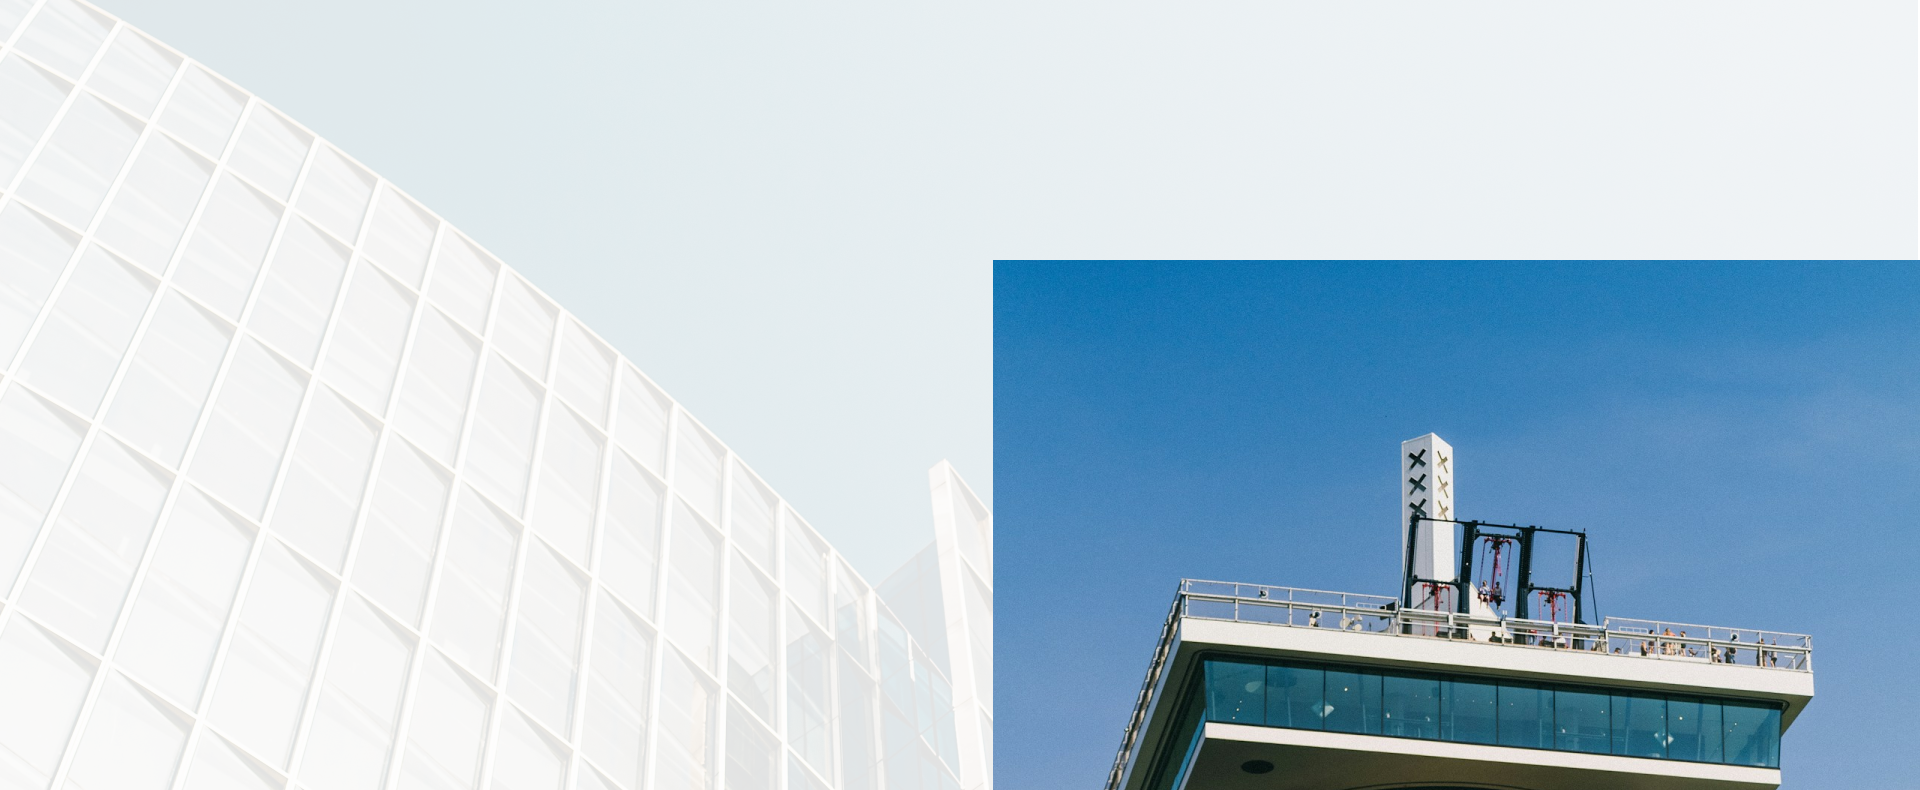
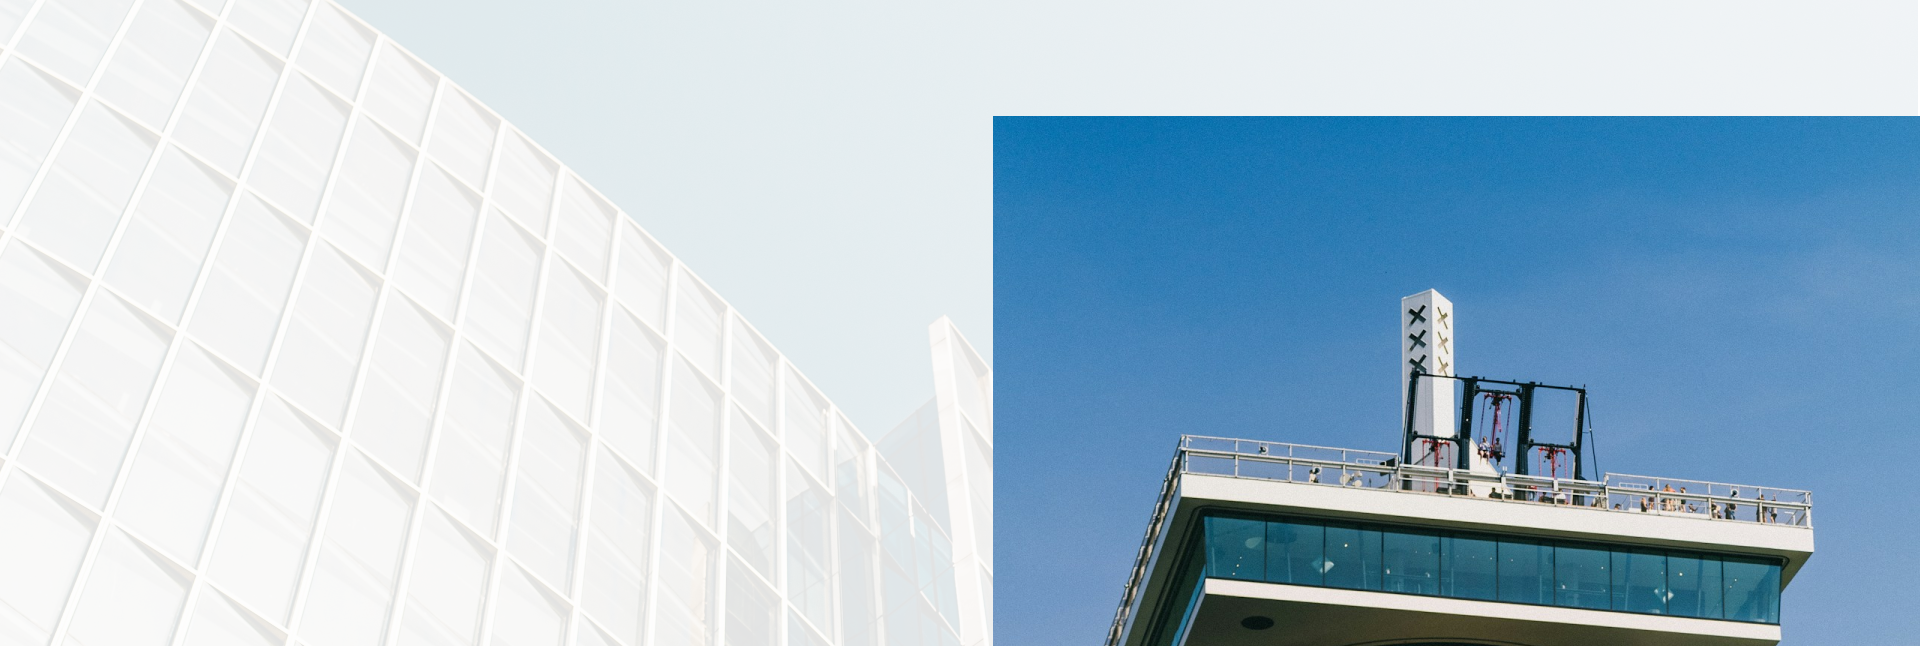
minor change

diff --git a/index.html b/index.html
@@ -106,7 +106,7 @@
                 <div class="col-lg-8 p-0">
 
                     <div class="slider-container">
-                        <div class="slider" id="slider">
+                        <div class="slider slider-img-index" id="slider">
                             <!-- Images will be dynamically added here -->
                         </div>
                     </div>
@@ -159,10 +159,12 @@
                             imgCurrent.src = images[currentIndex];
                             imgCurrent.className = 'img-slider2';
 
+
                             // Create the next image element
                             const imgNext = document.createElement('img');
                             imgNext.src = images[nextIndex];
                             imgNext.className = 'img-slider3';
+
 
                             // Append images to the slider
                             slider.appendChild(imgPrev);
@@ -197,7 +199,7 @@
         </div>
     </div>
     <div class="bg-white container-fluid ">
-        <div class="row justify-content-between navbar-padding mt-5 mb-5">
+        <div class="row justify-content-between navbar-padding pt-5 mt-0 mb-0 pb-5">
             <div class="col-lg-5 project-service-colm animate-heading1-second-section-index"> <img
                     src="assets/img/modern-vintage-interior-living-room-blueprint-home-decor-concept-green-couch-with-marble-table-blue-wall-hardwood-flooring-3d-render 1 (2).webp"
                     alt="" class="service-project-img">
@@ -248,7 +250,7 @@
 
     </div>
     <div class="container-fluid how-work-container">
-        <div class=" navbar-padding pb-5">
+        <div class=" navbar-padding mt-0 pb-5">
 
             <div class="d-flex justify-content-lg-start justify-content-center">
                 <div class="how-work-colm index-howWork-headig-animate">
@@ -294,7 +296,7 @@
         </div>
 
     </div>
-    <div class="container-fluid bg-white mb-4 " style="overflow: hidden;">
+    <div class="container-fluid bg-white mb-0 pb-4 " style="overflow: hidden;">
         <h1 class="lastest-project-heading mt-5 mb-4 index-latest-project-animation-heading">Our Latest Project</h1>
         <div class="row mt-3 pt-3 index-latest-project-animation-img">
             <div class="col-lg-3 col-sm-6 mt-sm-0 mt-3  latest-photo-colm"><img

diff --git a/assets/css/style.css b/assets/css/style.css
@@ -171,22 +171,19 @@ text-transform: capitalize;
 
 }
 .img-slider1{
-    opacity: 0;
-    width: 28%;
-    height: 390px;
+    width: 27%;
+    height: 440px;
     z-index: 2;
 }
 .img-slider3{
-    opacity: 0;
-    width: 28%;
-    height: 390px;
+    width: 27%;
+    height: 440px;
     z-index: 2;
 
 }
 .img-slider2{
-    opacity: 0;
     width: 40%;
-    height: 472px;
+    height: 510px;
     border: 2px solid white;
     z-index: 2;
 
@@ -426,6 +423,7 @@ text-transform: capitalize;
 .how-work-container{
     background-image: url('../img/Frame\ 13.png');
     background-size: cover;
+    background-position: center;
     background-repeat: no-repeat;
     min-height: 100vh;
 }
@@ -585,5 +583,8 @@ margin-right: 0px;
     opacity: 0;
 }
 .animate-icon-coial-index{
+    opacity: 0;
+}
+.slider-img-index{
     opacity: 0;
 }

diff --git a/assets/js/script.js b/assets/js/script.js
@@ -66,6 +66,17 @@ gsap.fromTo(".img-slider3",
     delay: 0.1
   }
 );
+gsap.fromTo(".slider-img-index", 
+  { // from
+    opacity: 0,
+   
+  }, 
+  { // to
+    opacity: 1,
+    duration: 0.5,
+    delay: 0.1
+  }
+);
 
 // Animate .img-slider2 from an initial state and then to a final state
 gsap.fromTo(".img-slider2", 
